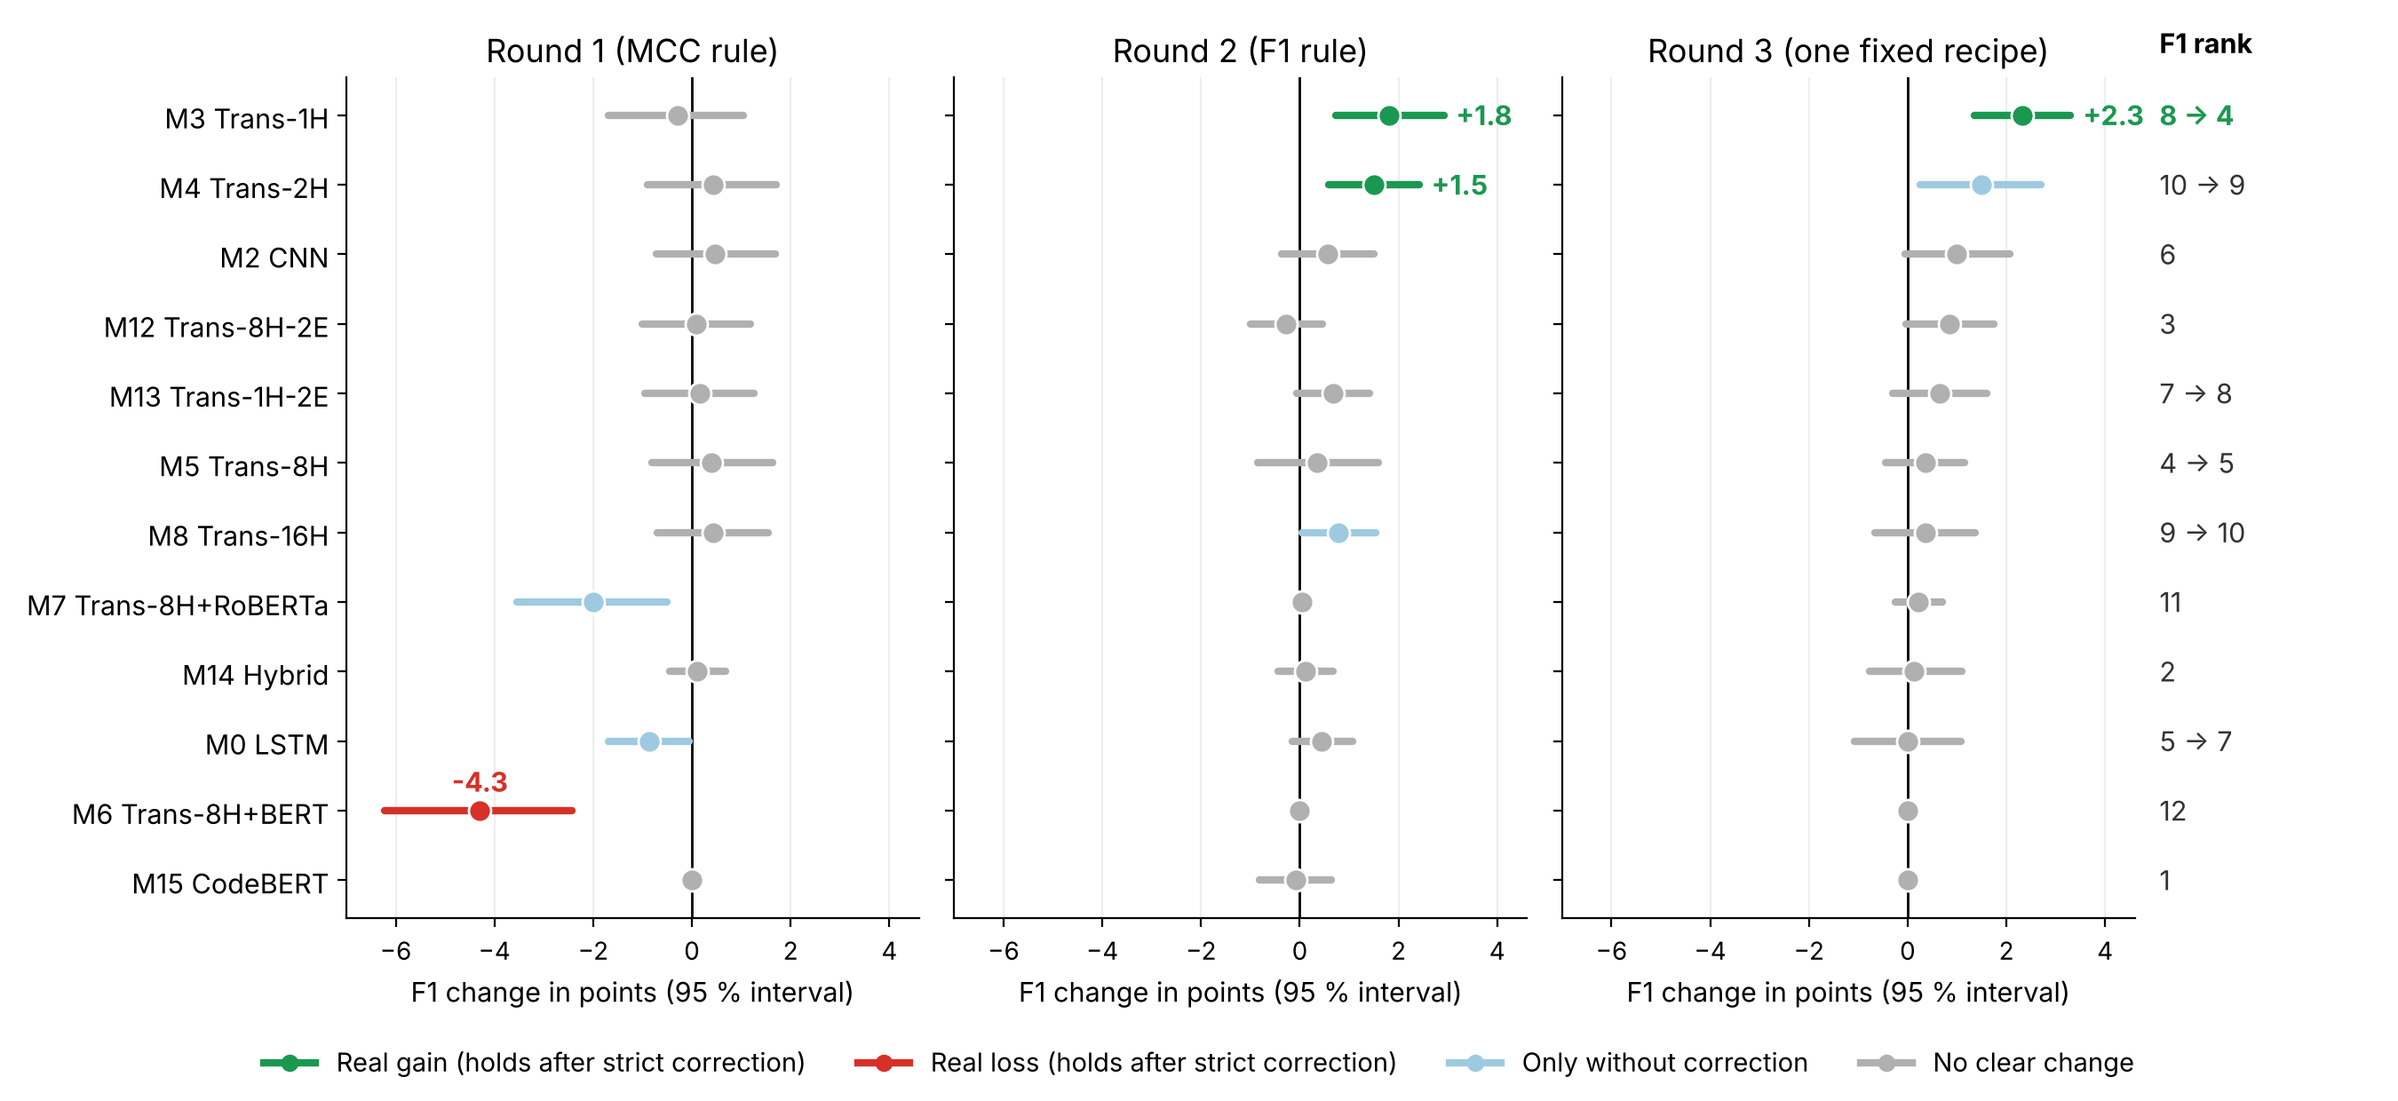
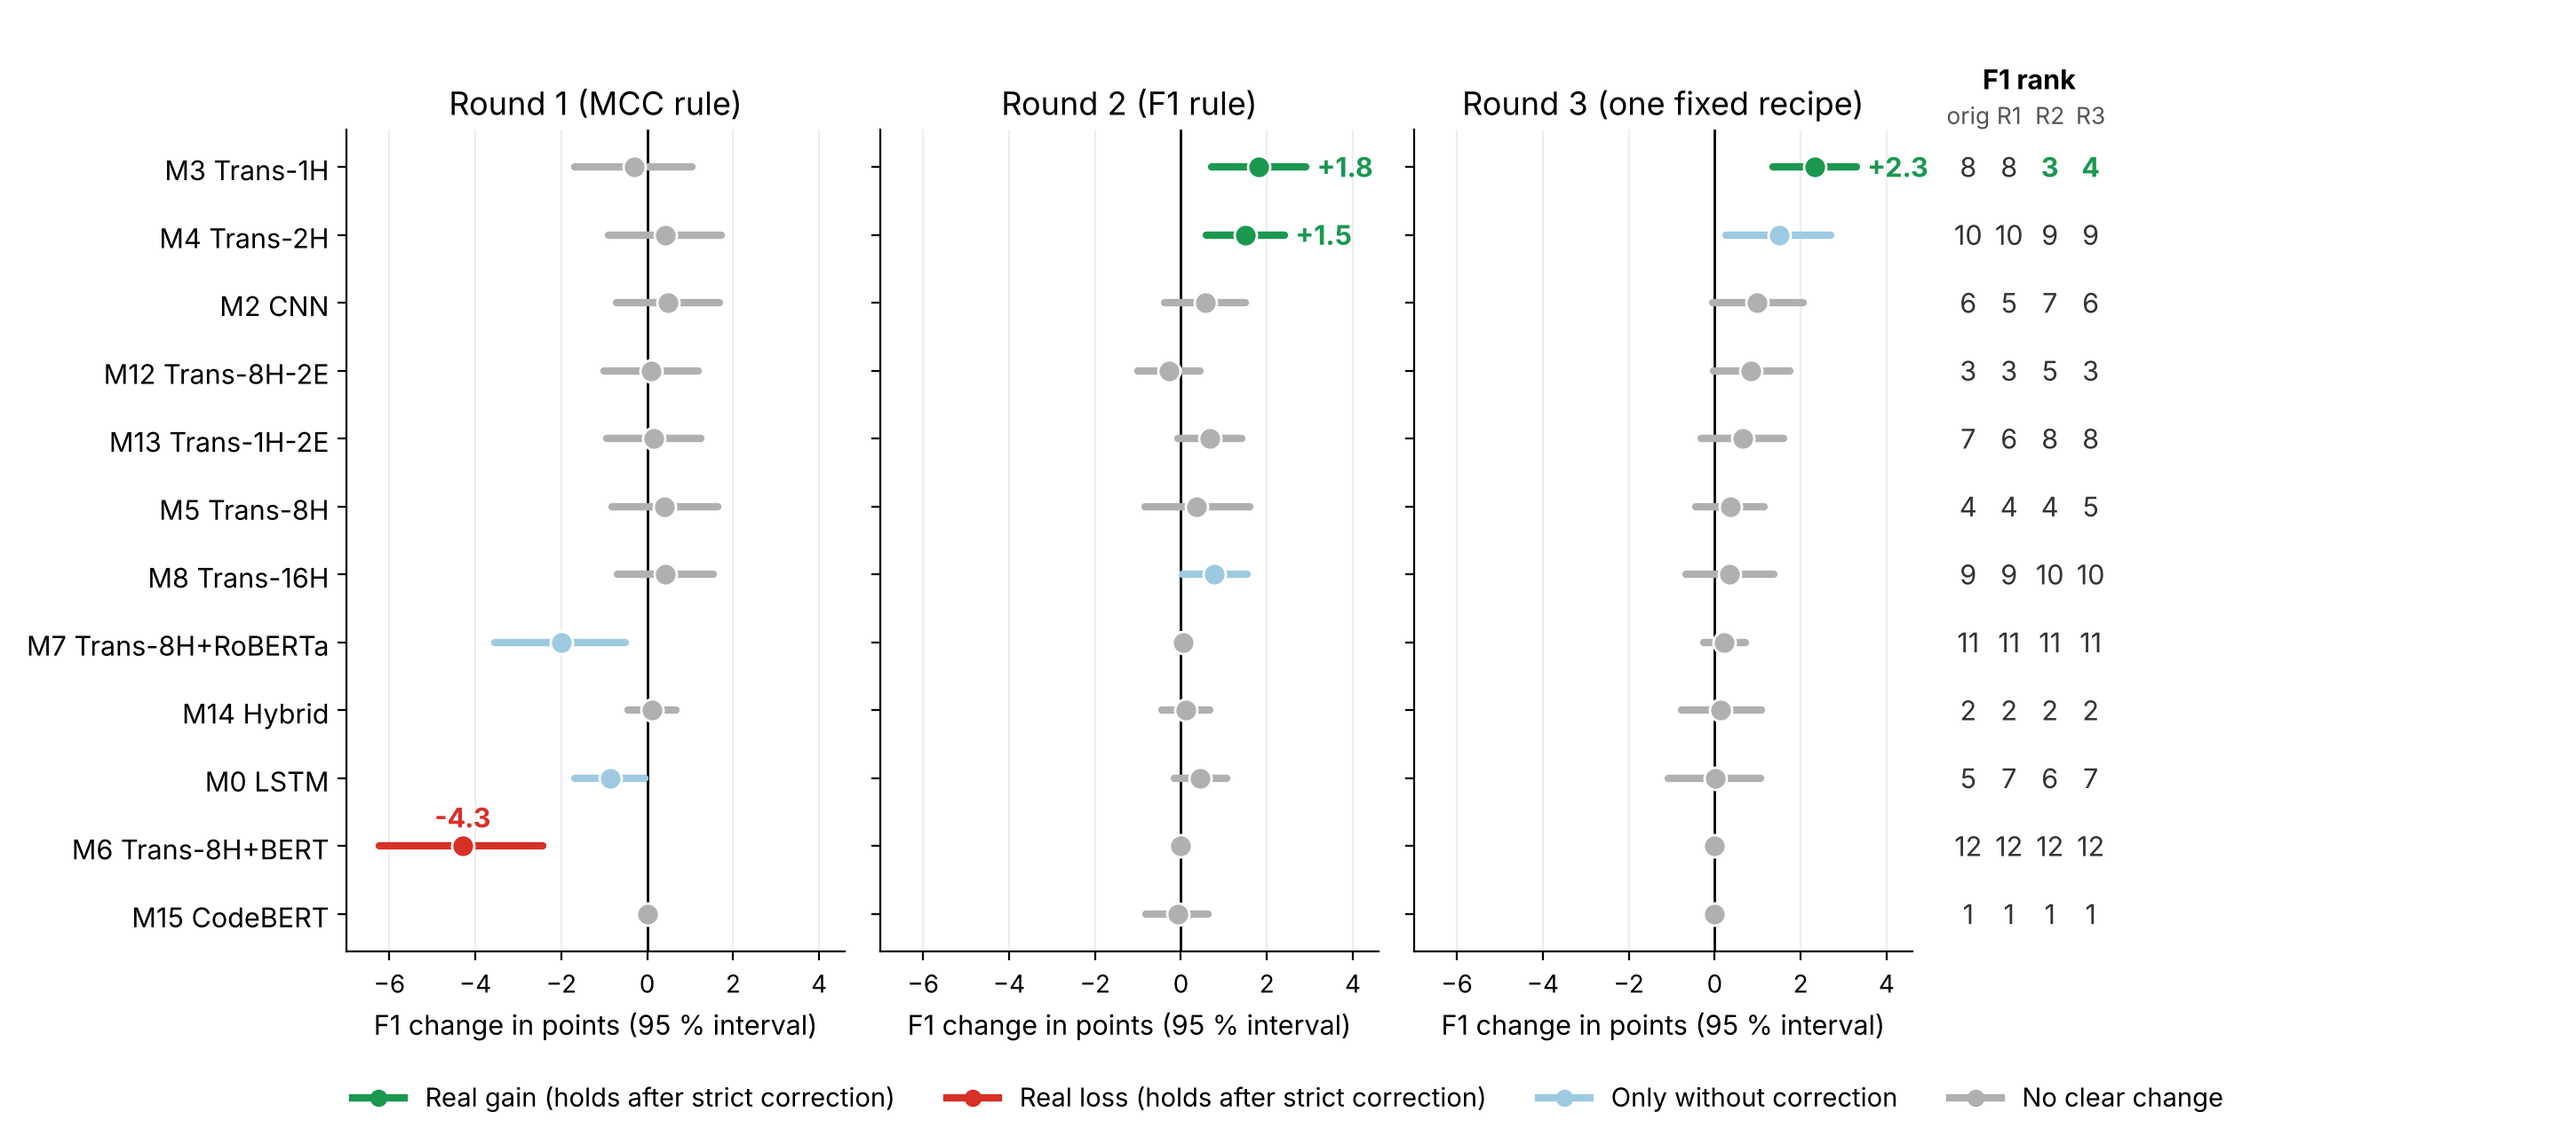
Show the F1 rank of every round in the results chart

diff --git a/experiments/figures/make_forest3.py b/experiments/figures/make_forest3.py
@@ -15,15 +15,18 @@ row = {(x["round"], x["model"]): (x["d_f1"], x["ci_f1"][0], x["ci_f1"][1], x["si
 for k, x in R3.items():
     d = x["d_f1_vs_original"]; lo, hi = x["ci95"] if x.get("ci95") else (d, d)
     row[(3, int(k))] = (d, lo, hi, x.get("holm36_sig_f1", False), x.get("p_f1_two_sided", 1) < 0.05)
-orig = {int(k): x["f1_original"] for k, x in R3.items()}; fin = {int(k): x["f1_round3"] for k, x in R3.items()}
+S = json.load(open("/home/claude/work/results/summary_all.json"))
+f1 = {(x["round"], x["model"]): x["f1"] for x in S}   # [original, after the round]
+F = {0: {int(k): x["f1_original"] for k, x in R3.items()}, 3: {int(k): x["f1_round3"] for k, x in R3.items()}}
+for rnd in (1, 2): F[rnd] = {m: (f1[(rnd, m)][1] if (rnd, m) in f1 else F[0][m]) for m in NAME}
 def ranks(d): return {m: i + 1 for i, m in enumerate(sorted(d, key=lambda k: -d[k]))}
-ro, rf = ranks(orig), ranks(fin)
+RK = {k: ranks(v) for k, v in F.items()}
 order = sorted(NAME, key=lambda m: row[(3, m)][0])
 
 GREEN, RED, LIGHT, GREY = "#1a9850", "#d73027", "#9ecae1", "#b0b0b0"
 def colour(d, holm, raw): return (GREEN if d > 0 else RED) if holm else (LIGHT if raw else GREY)
 TITLE = {1: "Round 1 (MCC rule)", 2: "Round 2 (F1 rule)", 3: "Round 3 (one fixed recipe)"}
-fig, axes = plt.subplots(1, 3, figsize=(13.5, 6.2), sharey=True)
+fig, axes = plt.subplots(1, 3, figsize=(14.5, 6.4), sharey=True)
 for ax, rnd in zip(axes, (1, 2, 3)):
     ax.axvline(0, color="black", lw=1)
     for y, m in enumerate(order):
@@ -38,15 +41,22 @@ for ax, rnd in zip(axes, (1, 2, 3)):
     ax.grid(axis="x", color="#eee"); ax.set_axisbelow(True)
     for s in ("top", "right"): ax.spines[s].set_visible(False)
 axes[0].set_yticks(range(len(order))); axes[0].set_yticklabels([NAME[m] for m in order], fontsize=11)
+# Rank column: the F1 rank of the model with original weights and after each round.
+X0 = 5.9
 for y, m in enumerate(order):
-    a, b = ro[m], rf[m]; big = b < a - 1
-    axes[2].text(5.1, y, f"{a} → {b}" if a != b else f"{a}", va="center", fontsize=11, color=GREEN if big else "#333", fontweight="bold" if big else "normal")
-axes[2].text(5.1, len(order) - 0.2, "F1 rank", fontsize=11, fontweight="bold", va="bottom")
+    best = min(RK[k][m] for k in (1, 2, 3)); big = best < RK[0][m] - 1
+    for j, k in enumerate((0, 1, 2, 3)):
+        v = RK[k][m]; hot = k > 0 and v < RK[0][m] - 1
+        axes[2].text(X0 + j * 0.95, y, str(v), va="center", ha="center", fontsize=11,
+                     color=GREEN if hot else "#333", fontweight="bold" if hot else "normal")
+for j, t in enumerate(("orig", "R1", "R2", "R3")):
+    axes[2].text(X0 + j * 0.95, len(order) - 0.45, t, ha="center", va="bottom", fontsize=9.5, color="#555")
+axes[2].text(X0 + 1.42, len(order) + 0.05, "F1 rank", ha="center", va="bottom", fontsize=11, fontweight="bold")
 h = [Line2D([], [], color=GREEN, marker="o", lw=3, label="Real gain (holds after strict correction)"),
      Line2D([], [], color=RED, marker="o", lw=3, label="Real loss (holds after strict correction)"),
      Line2D([], [], color=LIGHT, marker="o", lw=3, label="Only without correction"),
      Line2D([], [], color=GREY, marker="o", lw=3, label="No clear change")]
 fig.legend(handles=h, loc="lower center", ncol=4, frameon=False, fontsize=10.5)
-fig.tight_layout(rect=(0, 0.06, 0.95, 1))
+fig.tight_layout(rect=(0, 0.06, 0.84, 0.97))
 fig.savefig("/home/claude/work/fig/fig0_gains3.png", dpi=200, facecolor="white")
-for m in order[::-1]: print(NAME[m], ro[m], rf[m], row[(3, m)])
+for m in order[::-1]: print(NAME[m], [RK[k][m] for k in (0, 1, 2, 3)])
